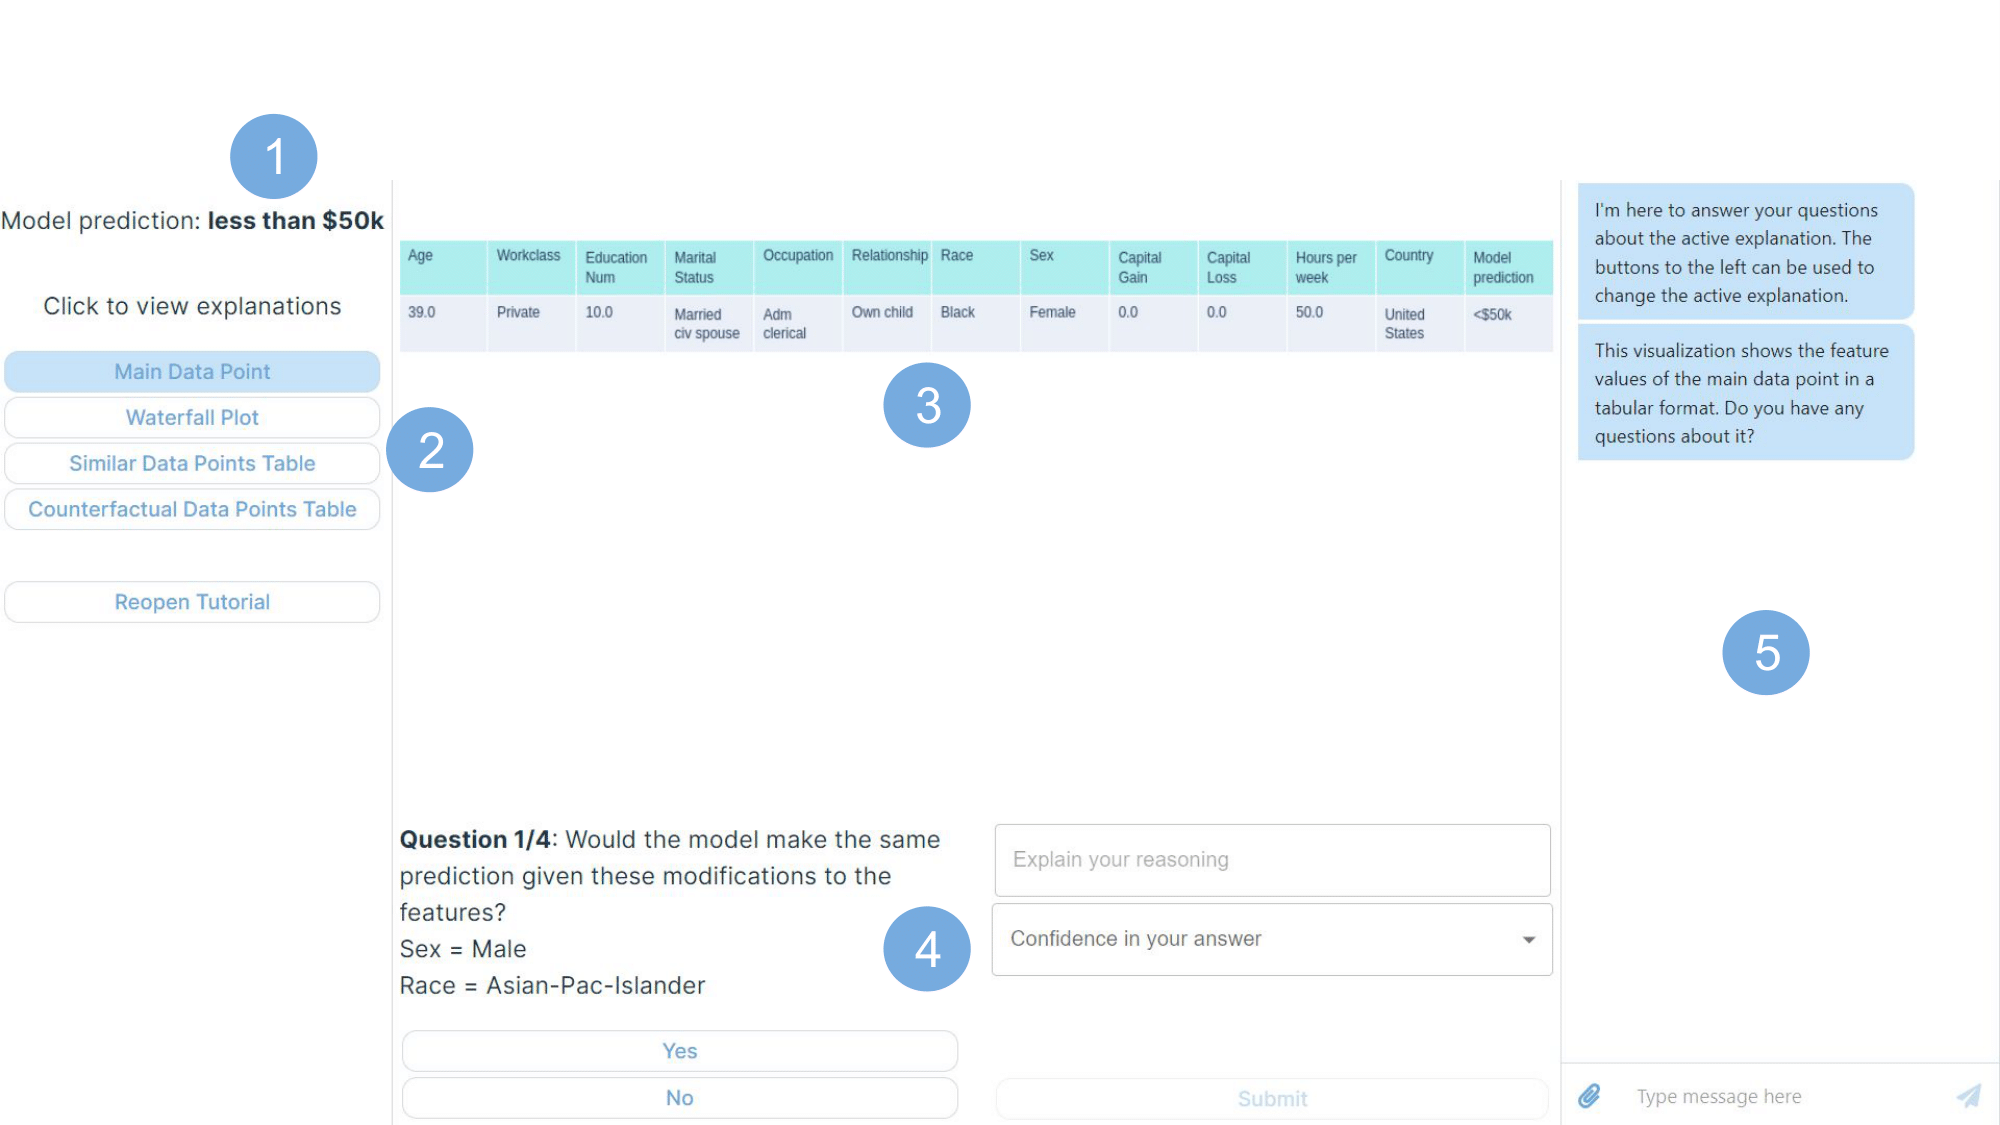
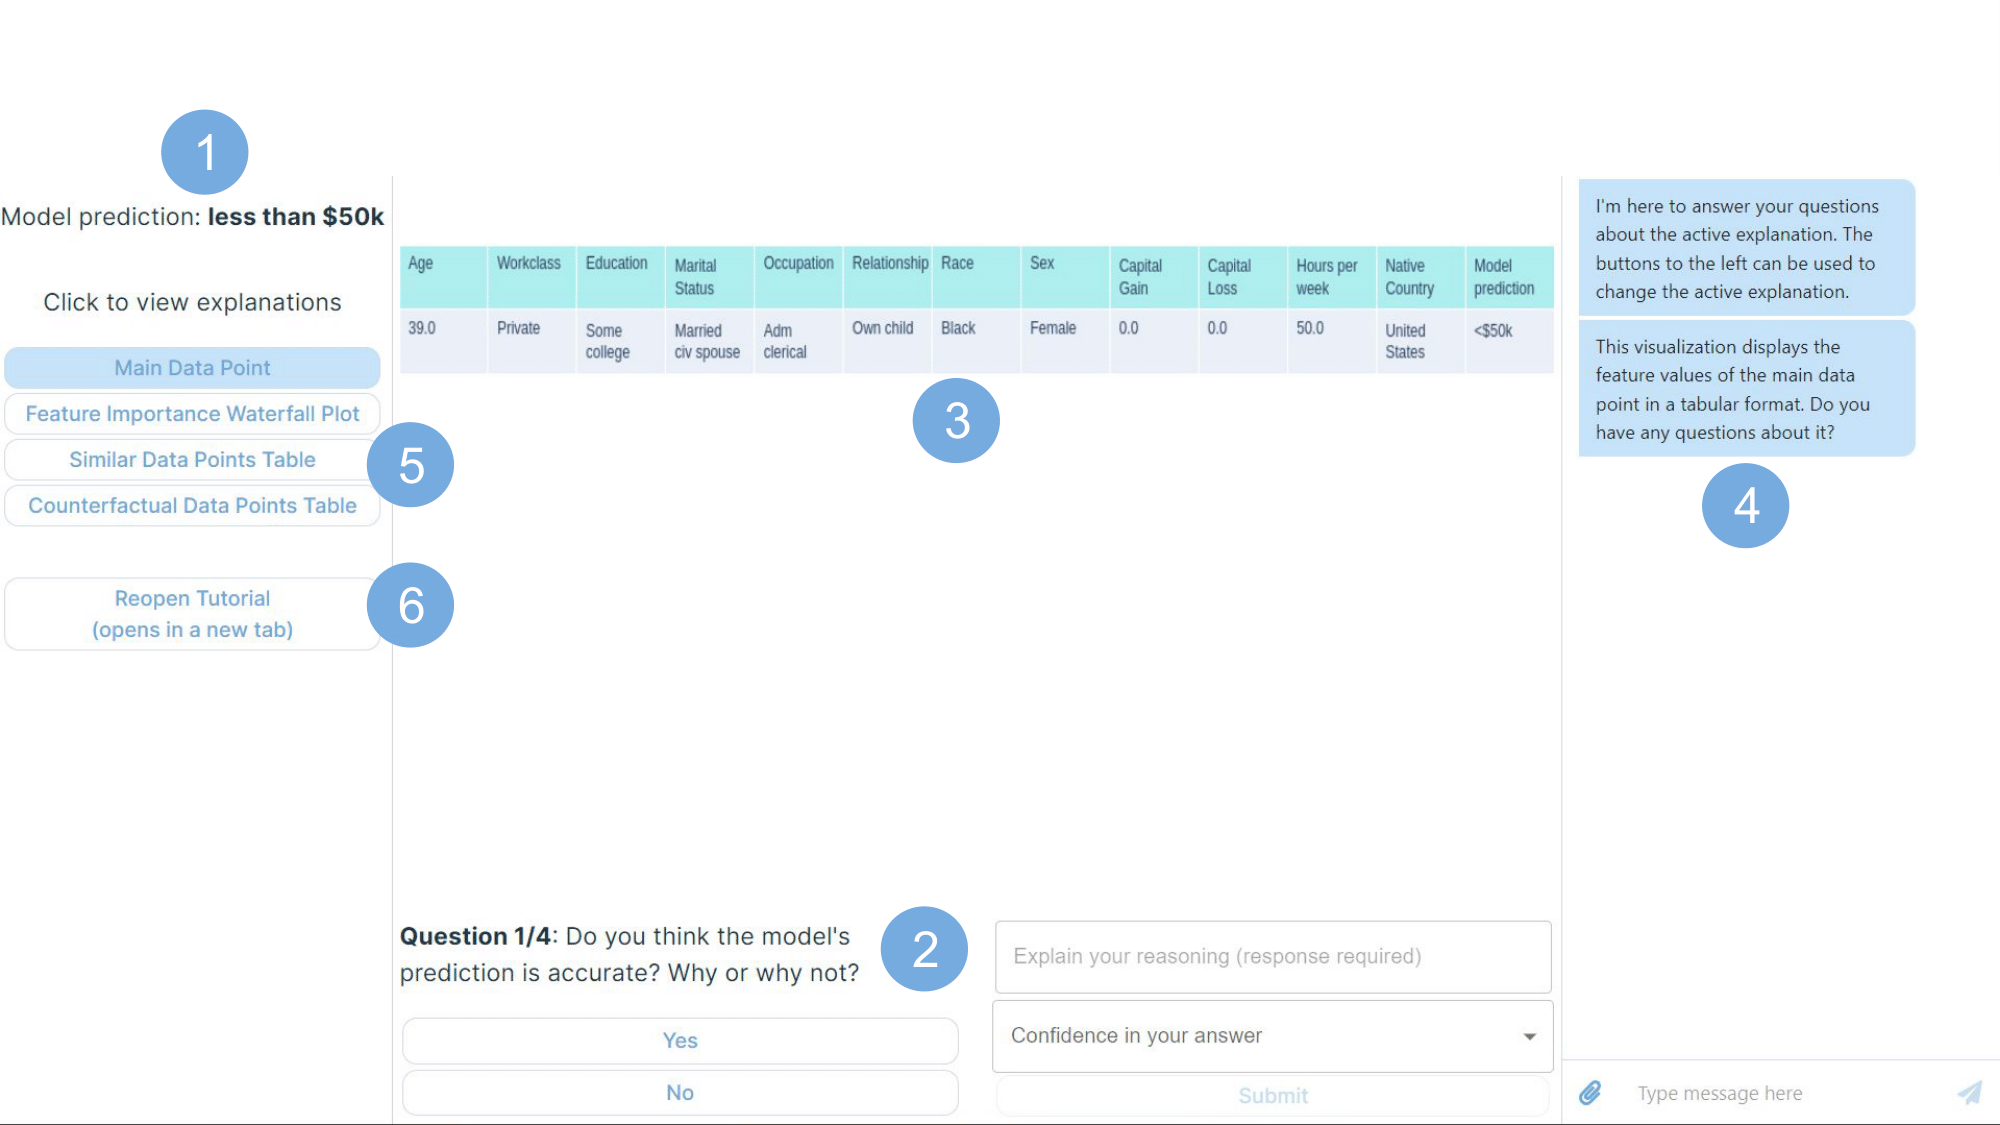
bugs/kinks

diff --git a/src/TutorialPage.jsx b/src/TutorialPage.jsx
@@ -200,10 +200,10 @@ const TutorialPage = () => {
         </StyledParagraph>
         <div>
           <StyledList>
-            <StyledListItem><b>Threshold of Classification at 0:</b> A decision threshold that determines the classification outcome.</StyledListItem>
+            <StyledListItem><b>Threshold of Classification at 0:</b> A decision threshold that determines the classification outcome. Negative values indicate a prediction of less than $50k, and nonnegative values indicate a perdiction of more than $50k.</StyledListItem>
             <StyledListItem><b>Expected Value:</b> The baseline value if no features are considered.</StyledListItem>
             <StyledListItem><b>Feature Contributions:</b> Red bars indicate features that push the prediction higher, while blue bars indicate features that push it lower.</StyledListItem>
-            <StyledListItem><b>Explanation:</b> This plot explains why an individual was classified as making <b>more than $50k</b>. Features like 'marital status' and 'age' contributed <b>positively</b>, while 'education num' and 'capital gain' contributed <b>negatively</b>.</StyledListItem>
+            <StyledListItem><b>Note:</b> The same feature value can have different SHAP values for different data points (so an age of 47 doesn't always result in +0.94).</StyledListItem>
           </StyledList>
         </div>
         <div style={{ display: 'flex', justifyContent: 'center' }}>
@@ -236,7 +236,7 @@ const TutorialPage = () => {
 
       <StyledHeader>Using the Interface:</StyledHeader>
       <StyledParagraph>
-        Global explanations will help you understand how features influence the model's predictions across all datapoints
+        You will use the following interface to answer sets of 4 questions about two data points, one after the other.
       </StyledParagraph>
       <StyledSub>
         {!isChatting ?
@@ -250,9 +250,10 @@ const TutorialPage = () => {
             <div>
               <StyledList>
                 <StyledListItem><b>1:</b> The prediction on the main data point, stating whether the model predicted that it made more or less than $50k.</StyledListItem>
-                <StyledListItem><b>2:</b> A list of explanations. These can be clicked to change the current explanation displayed in 3. The current explanation is highlighted in this list.</StyledListItem>
+                <StyledListItem><b>2:</b> The multiple choice quiz. You will use information from the explanations to answer these questions. Select one of the answers below the question text, explain why you selected it in the “Explain your reasoning” field, select an option from the “Confidence in your answer” dropdown, and then click the “Submit” button for each question.</StyledListItem>
                 <StyledListItem><b>3:</b> The current explanation.</StyledListItem>
-                <StyledListItem><b>4:</b> The multiple choice quiz. You will use information from the explanations to answer these questions. Select one of the answers below the question text, explain why you selected it in the “Explain your reasoning” field, select an option from the “Confidence in your answer” dropdown, and then click the “Submit” button for each question.</StyledListItem>
+                <StyledListItem><b>4:</b> The list of explanations. These can be clicked to change the current explanation. The current explanation is highlighted in this list.</StyledListItem>
+                <StyledListItem><b>5:</b> The reopen tutorial button.</StyledListItem>
               </StyledList>
             </div>
           </div>
@@ -267,10 +268,11 @@ const TutorialPage = () => {
             <div>
               <StyledList>
                 <StyledListItem><b>1:</b> The prediction on the main data point, stating whether the model predicted that it made more or less than $50k.</StyledListItem>
-                <StyledListItem><b>2:</b> A list of explanations. These can be clicked to change the current explanation displayed in 3. The current explanation is highlighted in this list.</StyledListItem>
+                <StyledListItem><b>2:</b> The multiple choice quiz. You will use information from the explanations to answer these questions. Select one of the answers below the question text, explain why you selected it in the “Explain your reasoning” field, select an option from the “Confidence in your answer” dropdown, and then click the “Submit” button for each question.</StyledListItem>
                 <StyledListItem><b>3:</b> The current explanation.</StyledListItem>
-                <StyledListItem><b>4:</b> The multiple choice quiz. You will use information from the explanations to answer these questions. Select one of the answers below the question text, explain why you selected it in the “Explain your reasoning” field, select an option from the “Confidence in your answer” dropdown, and then click the “Submit” button for each question.</StyledListItem>
-                <StyledListItem><b>5:</b> The chat assistant. It can answer questions about the current explanation and the XAI interpretation contents of this tutorial. It will not answer any other questions, nor will it answer questions from 4.</StyledListItem>
+                <StyledListItem><b>4:</b> The chat assistant. It can answer questions about the current explanation and the XAI interpretation contents of this tutorial. It will not answer any other questions, nor will it answer quiz questions.</StyledListItem>
+                <StyledListItem><b>5:</b> The list of explanations. These can be clicked to change the current explanation. The current explanation is highlighted in this list.</StyledListItem>
+                <StyledListItem><b>6:</b> The reopen tutorial button.</StyledListItem>
               </StyledList>
             </div>
           </div>

diff --git a/src/OpenTutorialButton.jsx b/src/OpenTutorialButton.jsx
@@ -13,7 +13,7 @@ const OpenTutorialButton = (isChatting) => {
     const baseUrl = window.location.origin + window.location.pathname;
 
     // Define the new query string
-    let newQueryString = "?tutorialOnly";
+    let newQueryString = "?tutorialOnly&d=00";
 
     if (isChatting == true) {
       newQueryString += "&chat";
